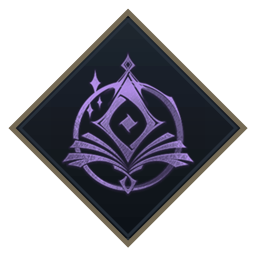
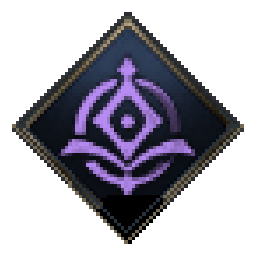
WEB 인게임 클래스 아이콘 정밀 교체

Changed region(s): [[0.0312, 0.0312, 0.9688, 0.9688]]

diff --git a/README.md b/README.md
@@ -26,7 +26,7 @@ KINOJO INFO GitHub Pages upload package.
 ## Class icon assets
 
 - All WEB class icons use the shared `assets/images/classes/class_icon_<class>.png` paths. Hall of Fame, ranking, sanctuary, Arcana, authentication, character detail, and Daevanion boards must reuse these paths instead of adding page-specific class icon files.
-- The active nine icons are the 256×256 transparent PNG emblems whose colors were sampled from the in-game class icons.
+- The active nine icons are the 256×256 transparent PNG emblems built from the user-provided in-game diamond interiors, frames, and class artwork without glyph-threshold extraction or recoloring. The level text and outer screenshot background are removed; fine class lines and the original in-game colors remain intact.
 - The previous PLAYNC originals are preserved unchanged under `assets/images/classes/original/` with the same file names for rollback and comparison only. Runtime code must not reference the `original` folder.
 
 ## KINOJO Meter admin
